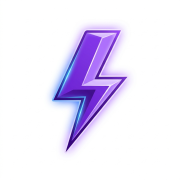
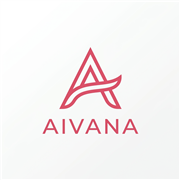
feat: scaffold project structure with PWA configuration, navigation, category grid, and auth-integrated state management

Changed region(s): [[0.2222, 0.1389, 0.7778, 0.8611]]

diff --git a/client/src/components/layout/Navbar.jsx b/client/src/components/layout/Navbar.jsx
@@ -277,11 +277,10 @@ export default function Navbar() {
   return (
     <>
       <header
-        className={`fixed top-0 left-0 right-0 z-40 transition-all duration-500 ${
-          isScrolled || location.pathname === '/faq' || location.pathname === '/contact'
-            ? 'bg-white/95 backdrop-blur-md shadow-sm py-3' 
+        className={`fixed top-0 left-0 right-0 z-40 transition-all duration-500 ${isScrolled || location.pathname === '/faq' || location.pathname === '/contact'
+            ? 'bg-white/95 backdrop-blur-md shadow-sm py-3'
             : 'bg-transparent py-5'
-        } ${isDarkHeader ? 'text-white' : 'text-ink'}`}
+          } ${isDarkHeader ? 'text-white' : 'text-ink'}`}
       >
         <div className="container-main flex items-center justify-between gap-2 sm:gap-4">
           <AnimatePresence>
@@ -387,15 +386,13 @@ export default function Navbar() {
                 onFocus={() => setActiveSearchSource('desktop')}
                 onBlur={() => setTimeout(() => setActiveSearchSource(null), 200)}
                 onChange={(e) => setSearchQuery(e.target.value)}
-                className={`w-full rounded-full py-2 pl-10 pr-4 text-sm transition-all duration-300 ${
-                  isDarkHeader 
-                    ? 'bg-white/20 text-white placeholder-white/80 border border-white/40 focus:bg-white/30 focus:border-white/60 group-hover:bg-white/25 shadow-inner' 
+                className={`w-full rounded-full py-2 pl-10 pr-4 text-sm transition-all duration-300 ${isDarkHeader
+                    ? 'bg-white/20 text-white placeholder-white/80 border border-white/40 focus:bg-white/30 focus:border-white/60 group-hover:bg-white/25 shadow-inner'
                     : 'bg-cream-100/50 border border-transparent focus:bg-white focus:border-rose-brand/30 focus:ring-4 focus:ring-rose-brand/5 placeholder-transparent group-hover:bg-cream-100'
-                }`}
+                  }`}
               />
-              <div className={`absolute left-3.5 top-1/2 -translate-y-1/2 transition-colors ${
-                isDarkHeader ? 'text-white group-focus-within:text-white' : 'text-ink-muted group-focus-within:text-rose-brand'
-              }`}>
+              <div className={`absolute left-3.5 top-1/2 -translate-y-1/2 transition-colors ${isDarkHeader ? 'text-white group-focus-within:text-white' : 'text-ink-muted group-focus-within:text-rose-brand'
+                }`}>
                 <FiSearch size={16} />
               </div>
 
@@ -425,17 +422,15 @@ export default function Navbar() {
           <div className="flex items-center gap-1 sm:gap-2 lg:gap-3 relative z-50">
             <button
               onClick={() => setIsMobileSearchOpen(true)}
-              className={`xl:hidden p-2 transition-all duration-300 rounded-full ${
-                isDarkHeader ? 'text-white hover:bg-white/20' : 'text-ink-light hover:text-rose-brand hover:bg-cream-100'
-              }`}
+              className={`xl:hidden p-2 transition-all duration-300 rounded-full ${isDarkHeader ? 'text-white hover:bg-white/20' : 'text-ink-light hover:text-rose-brand hover:bg-cream-100'
+                }`}
             >
               <FiSearch size={20} />
             </button>
 
             {user && (
-              <Link to="/wishlist" className={`p-2 transition relative rounded-full hidden sm:block ${
-                isDarkHeader ? 'text-white hover:text-white hover:bg-white/20' : 'text-ink-light hover:text-rose-brand hover:bg-cream-100'
-              }`}>
+              <Link to="/wishlist" className={`p-2 transition relative rounded-full hidden sm:block ${isDarkHeader ? 'text-white hover:text-white hover:bg-white/20' : 'text-ink-light hover:text-rose-brand hover:bg-cream-100'
+                }`}>
                 <FiHeart size={20} />
                 {wishlistCount > 0 && (
                   <span className="absolute top-1 right-1 bg-rose-brand text-white text-[10px] font-bold w-4 h-4 rounded-full flex items-center justify-center ring-2 ring-white">
@@ -448,9 +443,8 @@ export default function Navbar() {
             <button
               id="nav-cart-btn"
               onClick={() => setCartOpen(true)}
-              className={`p-2 transition relative cursor-pointer rounded-full ${
-                isDarkHeader ? 'text-white hover:text-white hover:bg-white/20' : 'text-ink-light hover:text-rose-brand hover:bg-cream-100'
-              }`}
+              className={`p-2 transition relative cursor-pointer rounded-full ${isDarkHeader ? 'text-white hover:text-white hover:bg-white/20' : 'text-ink-light hover:text-rose-brand hover:bg-cream-100'
+                }`}
             >
               <FiShoppingBag size={20} />
               {cartItemsCount > 0 && (
@@ -464,11 +458,10 @@ export default function Navbar() {
             {isInstallable && (
               <button
                 onClick={handleInstallClick}
-                className={`hidden lg:flex items-center gap-2 px-3 py-2 transition-all duration-300 rounded-full text-sm font-bold border ${
-                  isDarkHeader
+                className={`hidden lg:flex items-center gap-2 px-3 py-2 transition-all duration-300 rounded-full text-sm font-bold border ${isDarkHeader
                     ? 'border-white/40 text-white hover:bg-white/20'
                     : 'border-rose-brand/30 text-rose-brand hover:bg-rose-50 hover:border-rose-brand/50'
-                }`}
+                  }`}
                 title="Install Aivana App"
               >
                 <FiDownload size={16} />
@@ -482,13 +475,12 @@ export default function Navbar() {
                 <div className="flex items-center gap-1 lg:gap-2">
                   <button
                     onClick={() => setUserMenuOpen(!userMenuOpen)}
-                    className={`flex items-center gap-2 p-1 lg:pr-4 rounded-full transition-all duration-300 group ${
-                      userMenuOpen 
-                        ? 'bg-ink text-white shadow-lg shadow-ink/20' 
+                    className={`flex items-center gap-2 p-1 lg:pr-4 rounded-full transition-all duration-300 group ${userMenuOpen
+                        ? 'bg-ink text-white shadow-lg shadow-ink/20'
                         : isDarkHeader
                           ? 'bg-white/10 hover:bg-white/20 text-white border border-white/20 backdrop-blur-md'
                           : 'bg-white hover:bg-cream-50 border border-cream-200 text-ink shadow-sm hover:shadow-md hover:border-rose-brand/30'
-                    }`}
+                      }`}
                   >
                     <div className={`w-8 h-8 rounded-full overflow-hidden flex items-center justify-center shrink-0 transition-transform duration-300 group-hover:scale-105 ${isDarkHeader && !userMenuOpen ? 'bg-white/20' : 'bg-cream-100'} ${userMenuOpen ? 'ring-2 ring-white/20' : ''}`}>
                       {user.avatar?.url ? (
@@ -546,11 +538,10 @@ export default function Navbar() {
                   </AnimatePresence>
                 </div>
               ) : (
-                <Link to="/login" className={`flex items-center justify-center p-2 transition rounded-full lg:font-bold lg:text-sm ${
-                  isDarkHeader 
-                    ? 'text-white hover:text-white hover:bg-white/20 lg:bg-white/20 lg:text-white lg:px-6 lg:py-2.5 lg:hover:bg-white/30' 
+                <Link to="/login" className={`flex items-center justify-center p-2 transition rounded-full lg:font-bold lg:text-sm ${isDarkHeader
+                    ? 'text-white hover:text-white hover:bg-white/20 lg:bg-white/20 lg:text-white lg:px-6 lg:py-2.5 lg:hover:bg-white/30'
                     : 'text-ink-light hover:text-rose-brand hover:bg-cream-100 lg:bg-ink lg:text-white lg:px-6 lg:py-2.5 lg:shadow-lg lg:hover:bg-rose-brand'
-                }`}>
+                  }`}>
                   <FiUser size={20} className="lg:hidden" />
                   <span className="hidden lg:block">Sign in</span>
                 </Link>

diff --git a/client/src/pages/auth/LoginPage.jsx b/client/src/pages/auth/LoginPage.jsx
@@ -11,11 +11,11 @@ const RESEND_TIMER = 30; // seconds
 
 export default function LoginPage() {
   const [authMethod, setAuthMethod] = useState('email'); // 'email' | 'phone'
-  
+
   // Email states
   const [email, setEmail] = useState('');
   const [password, setPassword] = useState('');
-  
+
   // Phone states
   const [phone, setPhone] = useState('');
   const [otp, setOtp] = useState('');
@@ -184,13 +184,13 @@ export default function LoginPage() {
 
           {/* Custom Tabs */}
           <div className="flex bg-cream-100 rounded-xl p-1 mb-8">
-            <button 
+            <button
               onClick={() => { setAuthMethod('email'); setIsOtpSent(false); }}
               className={`flex-1 py-2 text-sm font-bold rounded-lg transition-all ${authMethod === 'email' ? 'bg-white text-ink shadow-sm' : 'text-ink-muted hover:text-ink'}`}
             >
               Email
             </button>
-            <button 
+            <button
               onClick={() => setAuthMethod('phone')}
               className={`flex-1 py-2 text-sm font-bold rounded-lg transition-all ${authMethod === 'phone' ? 'bg-white text-ink shadow-sm' : 'text-ink-muted hover:text-ink'}`}
             >
@@ -293,8 +293,8 @@ export default function LoginPage() {
                       <p className="text-sm text-ink-muted leading-tight">
                         OTP sent to <span className="font-bold text-ink">+91 {phone}</span>
                       </p>
-                      <button 
-                        type="button" 
+                      <button
+                        type="button"
                         onClick={() => { setIsOtpSent(false); setOtp(''); }}
                         className="text-xs font-bold text-rose-brand hover:text-rose-dark mt-2 underline underline-offset-2"
                       >
@@ -316,7 +316,7 @@ export default function LoginPage() {
                           onChange={(e) => {
                             const val = e.target.value.replace(/\D/g, '');
                             if (!val && e.nativeEvent.inputType !== 'deleteContentBackward') return;
-                            
+
                             const newOtp = otp.split('');
                             newOtp[index] = val;
                             const joinedOtp = newOtp.join('').slice(0, 6);

diff --git a/client/src/pages/auth/ForgotPasswordPage.jsx b/client/src/pages/auth/ForgotPasswordPage.jsx
@@ -72,8 +72,8 @@ export default function ForgotPasswordPage() {
           <div className="text-center mb-8">
             <h2 className="text-2xl font-display text-ink font-bold mb-2">Reset Password</h2>
             <p className="text-ink-muted text-sm">
-              {step === 1 
-                ? "Enter your email to receive a secure OTP" 
+              {step === 1
+                ? "Enter your email to receive a secure OTP"
                 : "Enter the OTP sent to your email and a new password"}
             </p>
           </div>
@@ -123,8 +123,8 @@ export default function ForgotPasswordPage() {
                   <p className="text-sm text-ink-muted leading-tight">
                     An OTP has been sent to <span className="font-bold text-ink">{email}</span>. It is valid for 10 minutes.
                   </p>
-                  <button 
-                    type="button" 
+                  <button
+                    type="button"
                     onClick={() => setStep(1)}
                     className="text-xs font-bold text-rose-brand hover:text-rose-dark mt-2 underline underline-offset-2"
                   >
@@ -148,7 +148,7 @@ export default function ForgotPasswordPage() {
                       onChange={(e) => {
                         const val = e.target.value.replace(/\D/g, '');
                         if (!val && e.nativeEvent.inputType !== 'deleteContentBackward') return;
-                        
+
                         const newOtp = otp.split('');
                         newOtp[index] = val;
                         const joinedOtp = newOtp.join('').slice(0, 6);

diff --git a/client/src/components/home/CategoryGrid.jsx b/client/src/components/home/CategoryGrid.jsx
@@ -68,10 +68,12 @@ export default function CategoryGrid() {
                 </p>
                 <Link
                   to={`/shop?category=${category.name}`}
-                  className="inline-flex items-center justify-center w-10 h-10 bg-white text-ink rounded-full transition-all duration-300 group-hover:w-full group-hover:bg-rose-brand group-hover:text-white"
+                  className="inline-flex items-center justify-center h-10 bg-white text-ink rounded-full transition-all duration-300 w-10 group-hover:w-full group-hover:bg-rose-brand hover:!bg-rose-dark overflow-hidden group-hover:text-white"
                 >
-                  <FiArrowRight className="group-hover:mr-2" />
-                  <span className="hidden group-hover:inline text-xs font-bold uppercase tracking-wider">Explore</span>
+                  <FiArrowRight className="flex-shrink-0 transition-transform duration-300" />
+                  <span className="max-w-0 opacity-0 whitespace-nowrap overflow-hidden transition-all duration-300 group-hover:max-w-[100px] group-hover:opacity-100 group-hover:ml-2 text-xs font-bold uppercase tracking-wider">
+                    Explore
+                  </span>
                 </Link>
               </div>
             </motion.div>

diff --git a/client/src/components/product/ProductCard.jsx b/client/src/components/product/ProductCard.jsx
@@ -73,9 +73,10 @@ const ProductCard = memo(function ProductCard({ product }) {
         });
         return;
       } catch (err) {
-        if (err.name !== 'AbortError') {
-          console.error('Direct share failed:', err);
+        if (err.name === 'AbortError') {
+          return;
         }
+        console.error('Direct share failed:', err);
       }
     }
 

diff --git a/client/src/pages/shop/ProductDetailPage.jsx b/client/src/pages/shop/ProductDetailPage.jsx
@@ -144,9 +144,10 @@ export default function ProductDetailPage() {
         });
         return;
       } catch (err) {
-        if (err.name !== 'AbortError') {
-          console.error('Direct share failed:', err);
+        if (err.name === 'AbortError') {
+          return;
         }
+        console.error('Direct share failed:', err);
       }
     }
 

diff --git a/client/vite.config.js b/client/vite.config.js
@@ -8,7 +8,7 @@ export default defineConfig({
     react(),
     VitePWA({
       registerType: 'autoUpdate',
-      includeAssets: ['favicon.svg', 'apple-touch-icon.png'],
+      includeAssets: ['favicon.png', 'apple-touch-icon.png'],
       manifest: {
         name: 'Aivana | AI-Powered Premium Fashion',
         short_name: 'Aivana',
@@ -37,6 +37,9 @@ export default defineConfig({
             purpose: 'maskable',
           },
         ],
+      },
+      devOptions: {
+        enabled: true,
       },
     }),
   ],

diff --git a/client/src/store/cartStore.js b/client/src/store/cartStore.js
@@ -50,7 +50,7 @@ const useCartStore = create(
             set({ isLoading: true });
             const res = await axiosInstance.post('/cart/items', { productId, quantity, size, color });
             set({ cart: res.data.data, isCartOpen: true });
-            toast.success('Added to your cart! 🛍️');
+            toast.success('Added to your cart!');
           } catch (error) {
             const msg = error.response?.data?.message || 'Failed to add to cart';
             toast.error(msg);
@@ -83,7 +83,7 @@ const useCartStore = create(
             cart: { items, totalPrice: calculateTotal(items) }, 
             isCartOpen: true 
           });
-          toast.success('Added to your cart! 🛍️');
+          toast.success('Added to your cart!');
         }
       },
 

diff --git a/client/index.html b/client/index.html
@@ -2,7 +2,7 @@
 <html lang="en">
   <head>
     <meta charset="UTF-8" />
-    <link rel="icon" type="image/svg+xml" href="/favicon.svg" />
+    <link rel="icon" type="image/png" href="/favicon.png" />
     <link rel="apple-touch-icon" href="/apple-touch-icon.png" />
     <meta name="viewport" content="width=device-width, initial-scale=1.0" />
 

diff --git a/client/src/pages/user/ProfilePage.jsx b/client/src/pages/user/ProfilePage.jsx
@@ -70,7 +70,7 @@ export default function ProfilePage() {
           },
         });
       }
-      toast.success("All items added to cart! 🛍️", { id: toastId });
+      toast.success("All items added to cart!", { id: toastId });
     } catch (err) {
       toast.error("Failed to add some items", { id: toastId });
     }